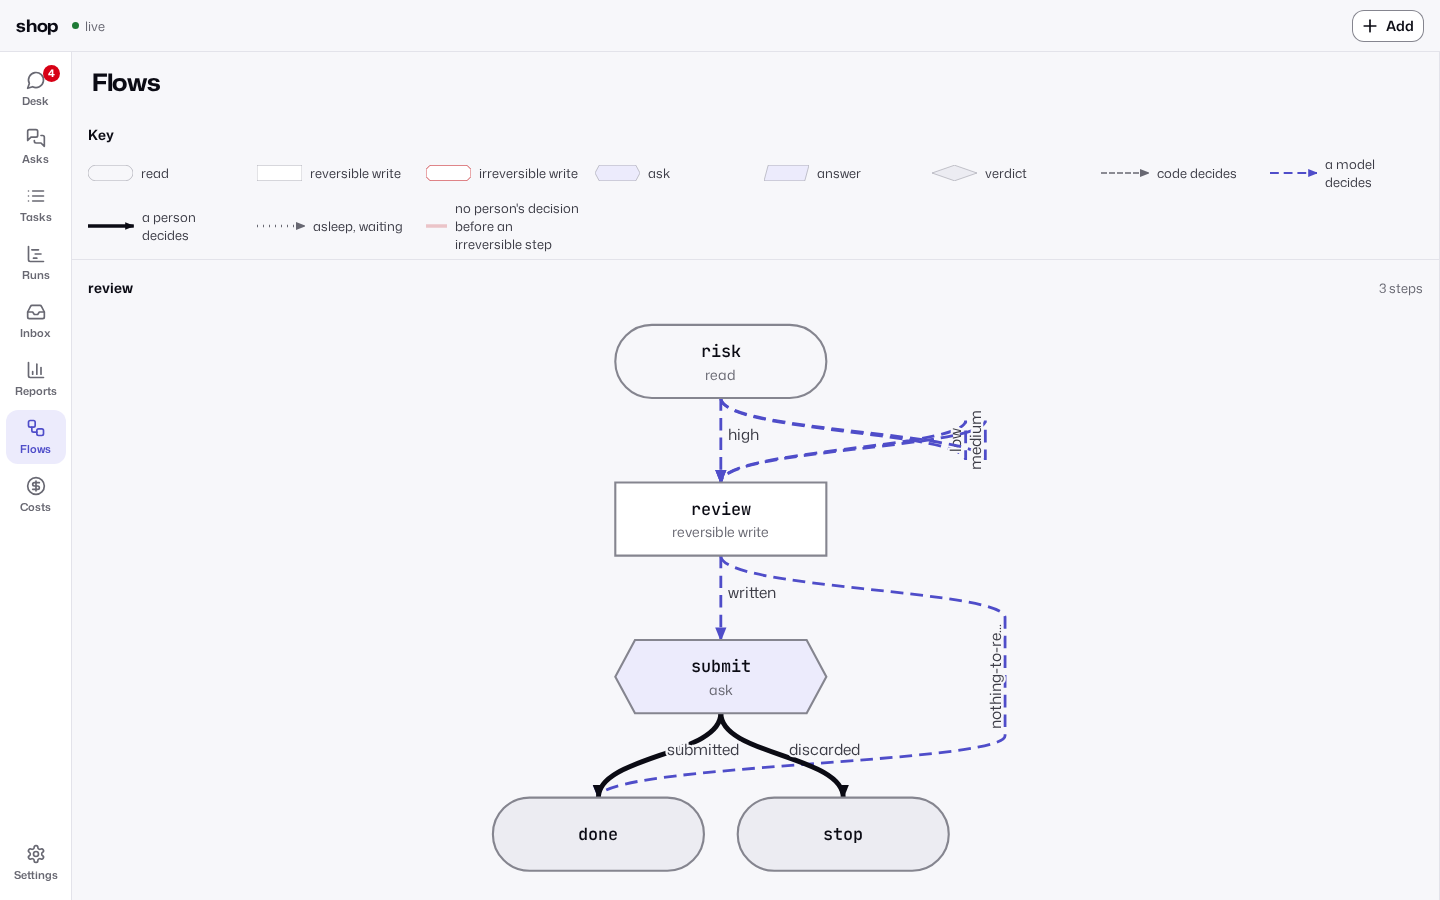
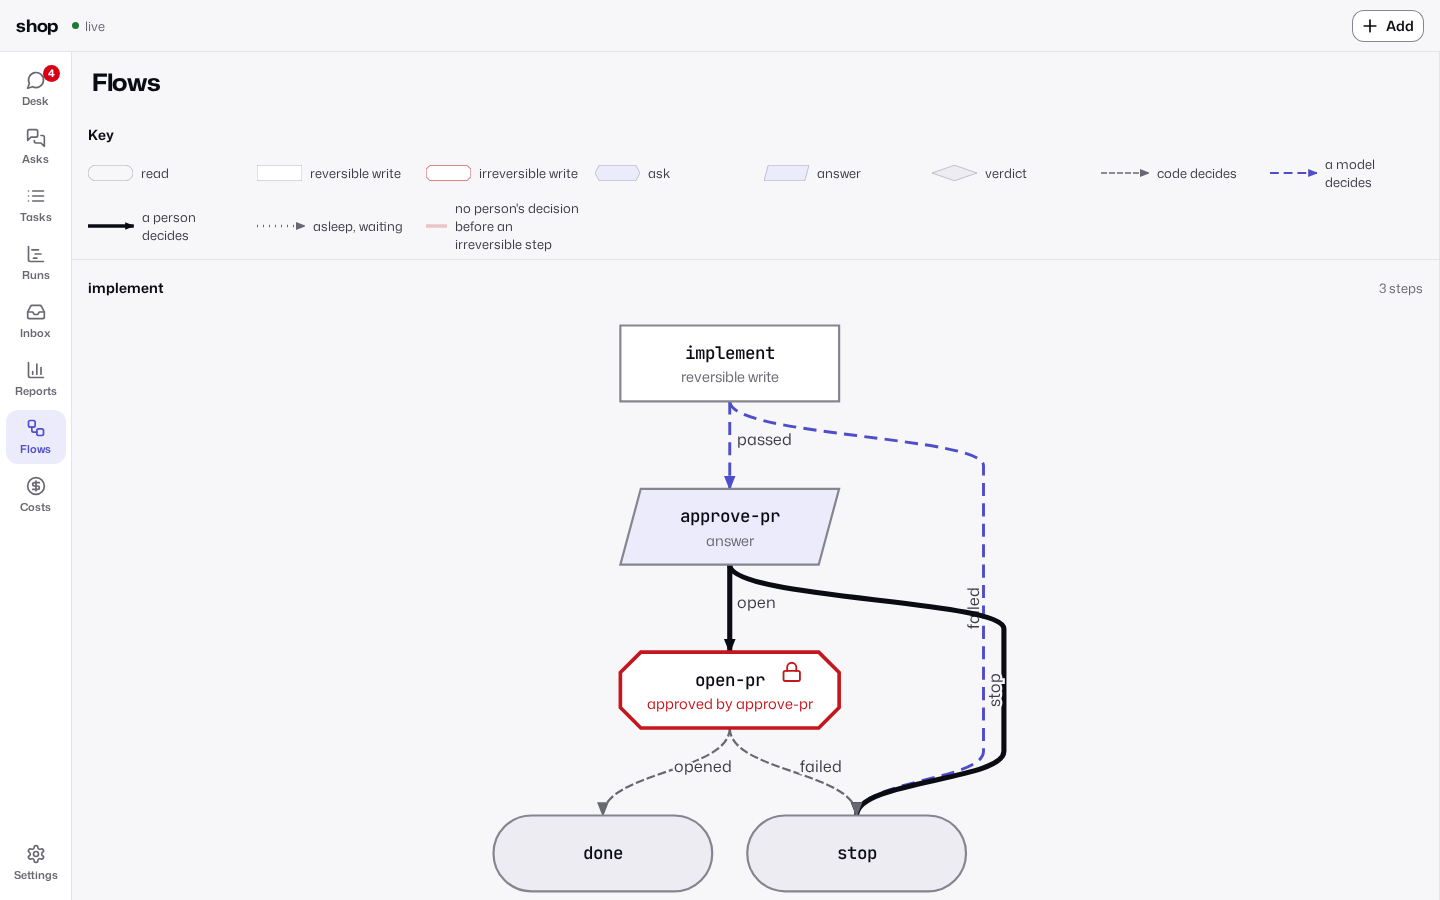
Show an irreversible step in the Flows screenshots and tighten the README prose

diff --git a/README.md b/README.md
@@ -54,21 +54,21 @@ On a phone, an ask opens as a page with its recommendation and options. Scrollin
 
 ![The same ask scrolled to its pull request, checks and inbox events in dark mode, with the answer bar fixed at the bottom: "2 options" and "open, Recommended".](docs/images/web-view-answer-bar-390-dark.png)
 
-The desk shows a going batch as one row, with its counts and which entries start next.
+The desk shows a batch in progress as one row, with its counts and which entries start next.
 
 ![The desk on a phone in light mode, scrolled to a stopped task and the batch row "Invoice exports: 1 merged, 2 started, 1 planned. Next: task 9 starts when task 8 merges."](docs/images/web-view-batch-390-light.png)
 
-The inbox groups events that reached no task by the resource they name, with the command that routes the next one.
+The inbox groups unrouted events by resource and offers actions to subscribe an existing task or request a new one.
 
 ![The inbox on a 1440 px screen in light mode: unrouted events grouped by resource, each with its task and a button to subscribe the task or request a new one.](docs/images/web-view-inbox-1440-light.png)
 
 ![The inbox on a phone in dark mode.](docs/images/web-view-inbox-390-dark.png)
 
-Flows draw each workflow and mark who decides each edge. Costs show spend, merges and your attention.
+Flows draw each workflow and mark who decides each edge and which step is irreversible. Costs show spend, merges and your attention.
 
-![Flows on a 1440 px screen in light mode: the review workflow, with the steps risk, review and submit, and the edges between them.](docs/images/web-view-flows-1440-light.png)
+![The implement workflow in Flows on a 1440 px screen in light mode, from implement to approve-pr to open-pr, with model decisions as dashed arrows, human decisions as solid arrows and a padlock on the irreversible step open-pr.](docs/images/web-view-flows-1440-light.png)
 
-![Flows on a phone in dark mode.](docs/images/web-view-flows-390-dark.png)
+![The implement workflow in Flows on a phone in dark mode.](docs/images/web-view-flows-390-dark.png)
 
 ![Costs on a 1440 px screen in light mode: cost this week, merges, cost per merge, a bar for each day, a table by workflow, and the minutes of your attention per merge.](docs/images/web-view-costs-1440-light.png)
 
